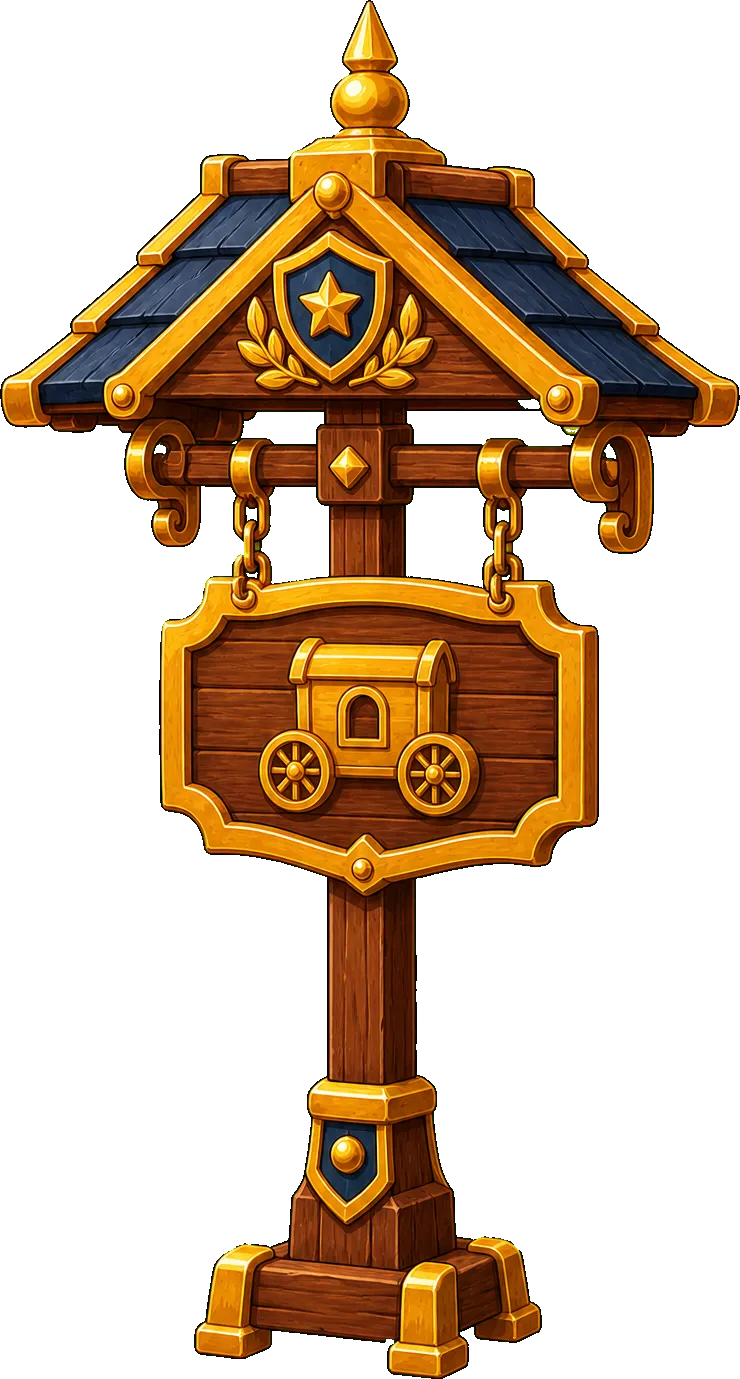
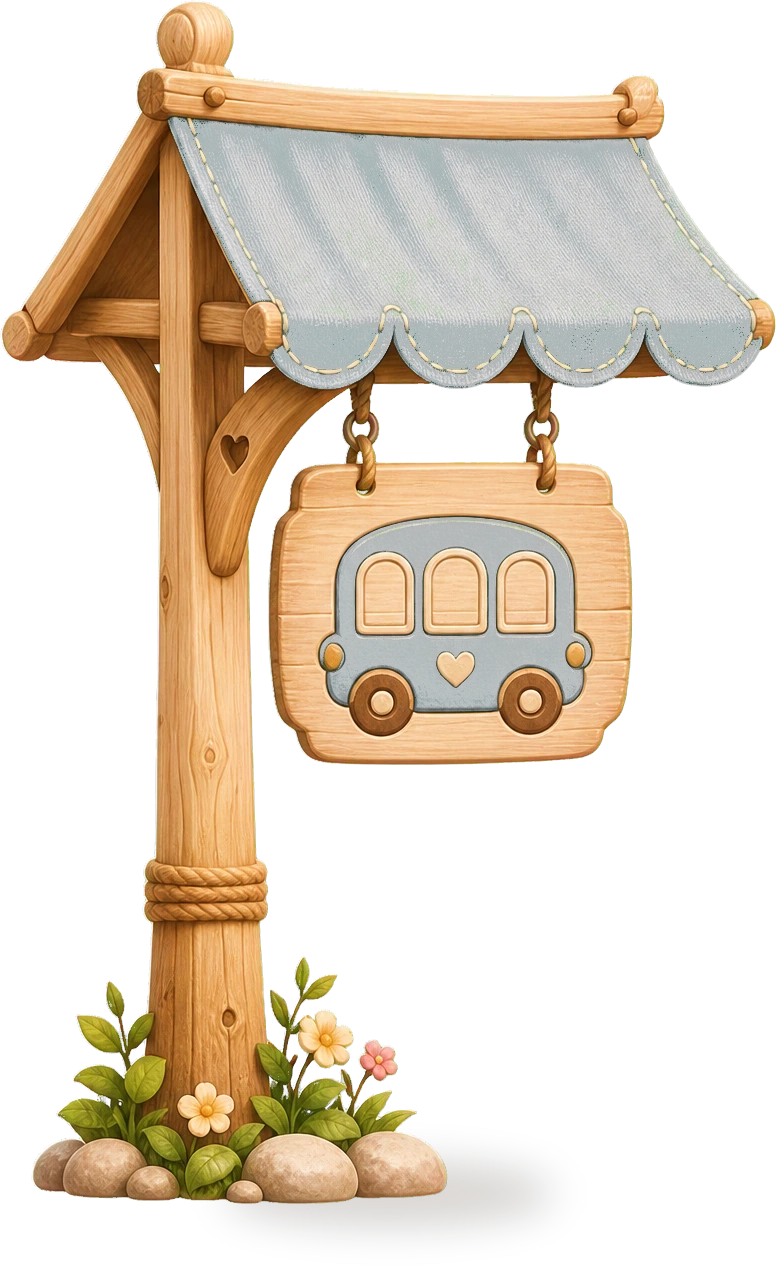
公車站牌換童話木亭風新圖（取代金色華麗舊牌），6 張地圖 scale 對齊 0.1199，建築圖 cache-bust v13

diff --git a/village-web/explore.js b/village-web/explore.js
@@ -159,16 +159,16 @@ class ExploreScene extends Phaser.Scene {
         if (!this.textures.exists(b.sprite.image)) {
           // 有 frame_width = spritesheet 動畫（噴泉），否則靜態圖
           if (b.sprite.frame_width && b.sprite.frame_height) {
-            this.load.spritesheet(b.sprite.image, this.assetBase + b.sprite.image + "?v=12",
+            this.load.spritesheet(b.sprite.image, this.assetBase + b.sprite.image + "?v=13",
               { frameWidth: b.sprite.frame_width, frameHeight: b.sprite.frame_height });
           } else {
-            this.load.image(b.sprite.image, this.assetBase + b.sprite.image + "?v=12");
+            this.load.image(b.sprite.image, this.assetBase + b.sprite.image + "?v=13");
           }
         }
       }
       // 清醒立繪（狀態切換）也先載好，避免淨化後重載閃一下
       if (b.purified && b.purified.sprite_image && !this.textures.exists(b.purified.sprite_image)) {
-        this.load.image(b.purified.sprite_image, this.assetBase + b.purified.sprite_image + "?v=12");
+        this.load.image(b.purified.sprite_image, this.assetBase + b.purified.sprite_image + "?v=13");
       }
     });
     // Player sprites（3 方向，所有地圖共用同一個玩家 → 用固定 key、已載就跳過）

diff --git a/village-web/index.html b/village-web/index.html
@@ -67,6 +67,6 @@
 <script src="farm.js?v=13"></script>
 <!-- 多人整合（feature flag）：?mp=1 才載 colyseus + mp.js，否則完全是原本單機 demo -->
 <script>if(new URLSearchParams(location.search).get("mp")==="1"){document.write('<script src="colyseus.bundle.js"><\/script><script src="mp.js?v=30"><\/script>');}</script>
-<script src="explore.js?v=122"></script>
+<script src="explore.js?v=123"></script>
 </body>
 </html>
